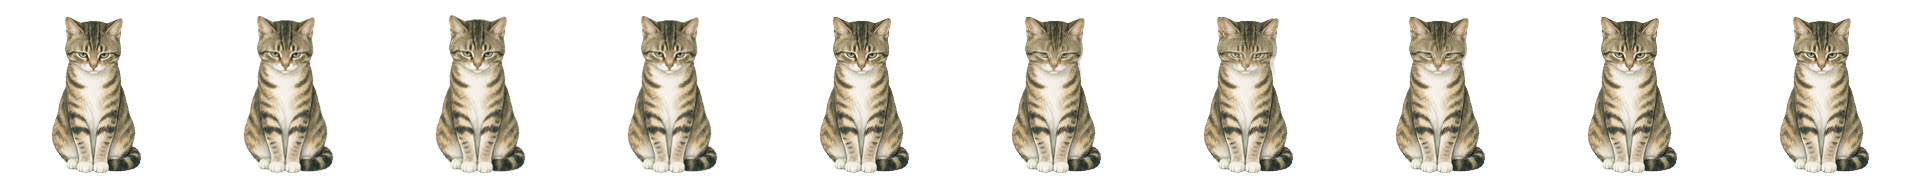
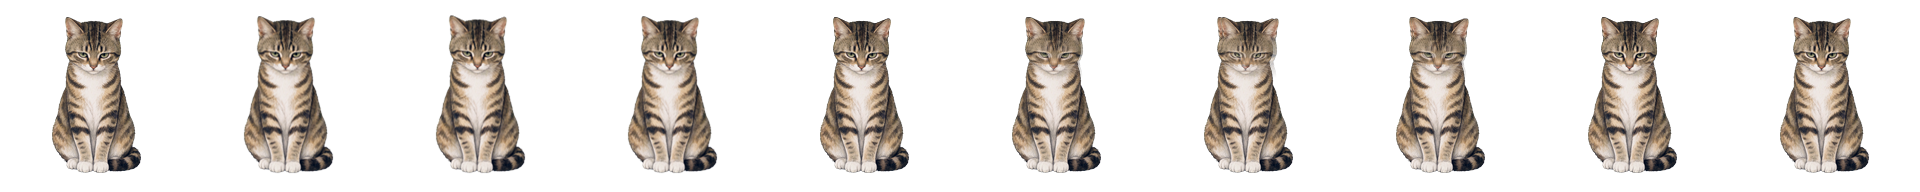
修复番茄钟跳过阶段、面板播放图标错位、陪读色差与拖拽滞空

diff --git a/src/KaixinPet.App/Ui/TimerPanelWindow.xaml b/src/KaixinPet.App/Ui/TimerPanelWindow.xaml
@@ -110,7 +110,8 @@
                                         <Border Width="2.5" Height="10" Background="{DynamicResource EyeDeepBrush}" Margin="0,0,2.5,0" />
                                         <Border Width="2.5" Height="10" Background="{DynamicResource EyeDeepBrush}" />
                                     </StackPanel>
-                                    <Path x:Name="ExpandedPlayIcon" Data="M9,7 L17,12 L9,17 Z"
+                                    <Path x:Name="ExpandedPlayIcon" Data="M8,6 L16,12 L8,18 Z"
+                                          Width="24" Height="24" Stretch="None"
                                           Fill="{DynamicResource EyeDeepBrush}"
                                           HorizontalAlignment="Center" VerticalAlignment="Center"
                                           Visibility="Collapsed" />

diff --git a/tests/KaixinPet.Pomodoro.Tests/Program.cs b/tests/KaixinPet.Pomodoro.Tests/Program.cs
@@ -9,7 +9,7 @@ var tests = new List<(string Name, Action Body)>
     ("auto focus on resumes focus", AutoFocusOnResumesFocus),
     ("fourth focus enters long break and resets cycle", LongBreakCycle),
     ("skip focus does not count", SkipFocusDoesNotCount),
-    ("skip break ignores auto focus", SkipBreakIgnoresAutoFocus),
+    ("skip break starts focus", SkipBreakStartsFocus),
     ("reset clears cycle count", ResetClearsCycle),
     ("suspend pause reason", SuspendPauseReason),
     ("update options takes effect next phase", UpdateOptionsNextPhase)
@@ -146,22 +146,24 @@ static void SkipFocusDoesNotCount()
     engine.StartFocus();
     engine.Skip();
 
-    Assert(engine.Snapshot.Phase == PomodoroPhase.Idle, "idle after skip focus");
-    Assert(engine.Snapshot.RunState == PomodoroRunState.Stopped, "stopped");
+    Assert(engine.Snapshot.Phase == PomodoroPhase.ShortBreak, "short break after skip focus");
+    Assert(engine.Snapshot.RunState == PomodoroRunState.Running, "break keeps running");
+    Assert(engine.Snapshot.Total == TimeSpan.FromMinutes(5), "short break duration");
     Assert(engine.Snapshot.CompletedFocusInCycle == 0, "skip not counted");
 }
 
-static void SkipBreakIgnoresAutoFocus()
+static void SkipBreakStartsFocus()
 {
-    var (engine, clock) = Create(autoStartBreaks: true, autoStartFocus: true);
+    var (engine, clock) = Create(autoStartBreaks: true, autoStartFocus: false);
     engine.StartFocus();
     clock.Advance(TimeSpan.FromMinutes(25));
     engine.Tick();
     Assert(engine.Snapshot.Phase == PomodoroPhase.ShortBreak, "break phase");
 
     engine.Skip();
-    Assert(engine.Snapshot.Phase == PomodoroPhase.Idle, "skip break idle");
-    Assert(engine.Snapshot.RunState == PomodoroRunState.Stopped, "skip break no auto focus");
+    Assert(engine.Snapshot.Phase == PomodoroPhase.Focus, "focus after skip break");
+    Assert(engine.Snapshot.RunState == PomodoroRunState.Running, "focus keeps running");
+    Assert(engine.Snapshot.Total == TimeSpan.FromMinutes(25), "focus duration");
 }
 
 static void ResetClearsCycle()

diff --git a/src/KaixinPet.App/App.xaml.cs b/src/KaixinPet.App/App.xaml.cs
@@ -443,7 +443,8 @@ public partial class App : Application
                 _pet.PlayTimerReaction("react.pounce");
             }
 
-            if (transition.From is PomodoroPhase.ShortBreak or PomodoroPhase.LongBreak)
+            if (transition.Reason != PhaseTransitionReason.Skipped &&
+                transition.From is PomodoroPhase.ShortBreak or PomodoroPhase.LongBreak)
             {
                 Notify("休息结束", "开始下一个番茄？");
             }
@@ -457,10 +458,18 @@ public partial class App : Application
 
             if (transition.From == PomodoroPhase.Focus)
             {
-                _pet.PlayTimerReaction("react.pet");
-                Notify(
-                    "专注完成",
-                    $"专注 {_pomodoroOptions?.FocusMinutes ?? 25} 分钟完成，该休息啦");
+                if (transition.Reason == PhaseTransitionReason.Skipped)
+                {
+                    _pet.PlayTimerReaction("react.pounce");
+                }
+                else
+                {
+                    _pet.PlayTimerReaction("react.pet");
+                    Notify(
+                        "专注完成",
+                        $"专注 {_pomodoroOptions?.FocusMinutes ?? 25} 分钟完成，该休息啦");
+                }
+
                 StartHourglassAnimation(
                     HourglassAnimationKind.Flip,
                     1, 1, 0.36,

diff --git a/src/KaixinPet.Pomodoro/PomodoroEngine.cs b/src/KaixinPet.Pomodoro/PomodoroEngine.cs
@@ -118,8 +118,22 @@ public sealed class PomodoroEngine : IPomodoroService
             }
         }
 
-        // 跳过专注不计入完成数；跳过休息不自动开始专注。
-        ToIdle(_phase, PhaseTransitionReason.Skipped);
+        // 跳过当前阶段直接进入下一阶段：跳过专注不计入完成数，进入短休息；
+        // 跳过休息进入下一个专注。跳过是用户主动行为，不受自动开始设置影响。
+        if (_phase == PomodoroPhase.Focus)
+        {
+            BeginPhase(
+                PomodoroPhase.ShortBreak,
+                ShortBreakDuration(),
+                PhaseTransitionReason.Skipped);
+        }
+        else
+        {
+            BeginPhase(
+                PomodoroPhase.Focus,
+                FocusDuration(),
+                PhaseTransitionReason.Skipped);
+        }
     }
 
     public void Reset()

diff --git a/src/KaixinPet.Pet/PetWindow.cs b/src/KaixinPet.Pet/PetWindow.cs
@@ -882,6 +882,9 @@ public sealed class PetWindow : IDisposable
         if (bounds.Top >= groundTop)
         {
             SetWindowPosY(groundTop);
+            // 拖拽常在地面高度或更低处松手；必须先进入下落态，Land 才会收尾，
+            // 否则 _falling 为 false 会让猫停在拖拽球里一直滞空。
+            _falling = true;
             Land();
             return;
         }

diff --git a/docs/开心桌宠-设计文档.md b/docs/开心桌宠-设计文档.md
@@ -534,22 +534,22 @@ stateDiagram-v2
     [*] --> Idle
     Idle --> Focus: 开始专注
     Focus --> Focus: 暂停 / 继续
-    Focus --> ShortBreak: 自然完成且未达轮次
+    Focus --> ShortBreak: 自然完成且未达轮次 / 跳过
     Focus --> LongBreak: 自然完成且达到轮次
-    Focus --> Idle: 放弃 / 重置
+    Focus --> Idle: 重置
     ShortBreak --> ShortBreak: 暂停 / 继续
     LongBreak --> LongBreak: 暂停 / 继续
-    ShortBreak --> Focus: 自动或手动开始
-    LongBreak --> Focus: 自动或手动开始
-    ShortBreak --> Idle: 跳过 / 重置
-    LongBreak --> Idle: 跳过 / 重置
+    ShortBreak --> Focus: 自动或手动开始 / 跳过
+    LongBreak --> Focus: 自动或手动开始 / 跳过
+    ShortBreak --> Idle: 重置
+    LongBreak --> Idle: 重置
 ```
 
 规则：
 
 1. **专注完成**：完成计数 +1。若 `完成计数 % 轮次 == 0`，下一个是长休息，否则短休息；进入长休息时把当前轮次计数归零，长休息结束后从第 1 个番茄重新计数。
-2. **跳过专注**：视为放弃，不计数、不进入休息，直接回空闲。避免用户通过“跳过”刷轮次。
-3. **跳过休息**：结束休息并回空闲，不自动开始专注（即使开启自动开始专注），给用户明确的停止点。
+2. **跳过专注**：不计入完成数，直接进入短休息并保持计时运行；跳过不会触发长休息，避免通过“跳过”刷轮次。
+3. **跳过休息**：直接进入下一个专注并保持计时运行，不受“自动开始专注”设置影响；需要完全停止时使用“结束本次专注/休息”。
 4. **暂停**：保留剩余时间；暂停期间不计时，沙漏的沙停止流动，时间标签灰显，猫进入待机/疑惑状态，不播放环境音。
 5. **重置**：当前阶段清空，回空闲，轮次计数清零；猫把沙漏收走（`timer.put_away`）。
 6. **手动休息**：右键菜单的「休息 5 分钟」启动短休息，不改变专注计数；猫把沙漏翻面后开始休息。
@@ -579,7 +579,8 @@ stateDiagram-v2
 | 休息结束    | 醒来/伸懒腰，叫一声                              | 沙漏收起；若自动专注则重新放置          | 若自动专注则转专注       |
 | 暂停      | 歪头、问号，一次软叫                              | 沙漏停沙，标签灰显                | 不循环提示           |
 | 继续      | 回坐姿/专注陪读                                | 沙漏继续流沙，标签恢复              | 无额外音效           |
-| 跳过/重置   | 回待机，轻叫一次                                | 猫把沙漏收走（`timer.put_away`） | 避免连续叫           |
+| 跳过      | 切换到下一阶段，轻叫一次                            | 沙漏翻转，沙色切换                | 专注→短休息；休息→专注；不显示完成通知 |
+| 重置      | 回待机，轻叫一次                                | 猫把沙漏收走（`timer.put_away`） | 避免连续叫           |
 
 - 沙漏不是独立窗口，属于桌宠场景的一部分；拖拽猫时沙漏与时间标签淡出，落地后恢复。
 - 专注期间猫不主动进入玩耍；但用户仍可手动「陪它玩毛线球」。此时弹一次确认：「玩毛线球会打扰专注，继续吗？」选择后执行，不暂停计时。这个入口保留是为了不剥夺用户主动玩耍的权利。
@@ -1236,7 +1237,7 @@ dotnet publish src/KaixinPet.App -c Release -r win-x64 --self-contained true -o 
 | A6  | 专注流程   | 开始 25 分钟倒计时                | 猫搬出沙漏；时间标签出现在沙漏上方并每秒更新；暂停/继续正确 |
 | A7  | 长休息    | 完成 4 个专注                   | 第 4 个后进入 15 分钟长休息；计数归零        |
 | A8  | 自动流转   | 自动休息开、自动专注关，专注完成           | 自动进入休息；休息结束回空闲，不自动专注          |
-| A9  | 跳过     | 专注中跳过                      | 不增加番茄数，不进入休息，回空闲              |
+| A9  | 跳过     | 专注中跳过                      | 不增加番茄数，进入短休息，番茄钟保持运行          |
 | A10 | 休眠     | 专注中让系统睡眠后唤醒                | 计时自动暂停，时间标签/托盘提示；不误计完成        |
 | A11 | 全屏     | 播放全屏视频/游戏                  | 猫、沙漏、时间标签隐藏；计时继续；退出全屏后恢复      |
 | A12 | 多屏/DPI | 拖动到不同 DPI 显示器              | 大小合理、不模糊跑位；位置保存               |
